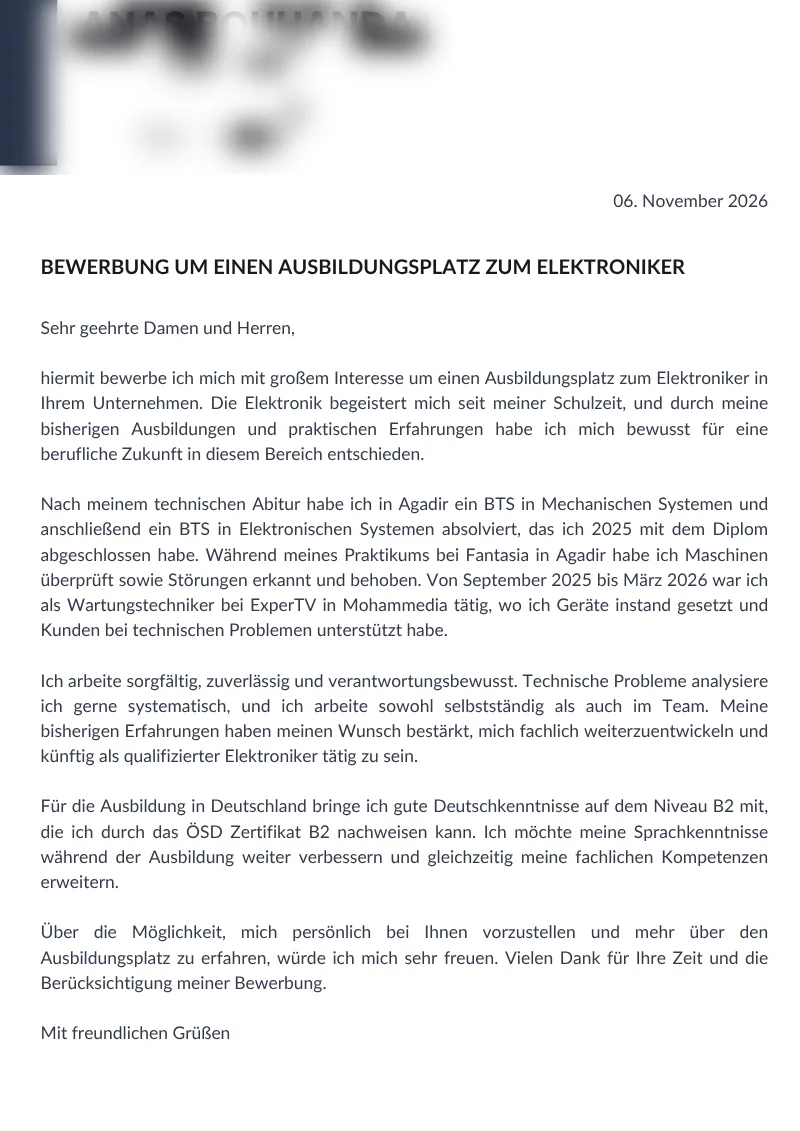
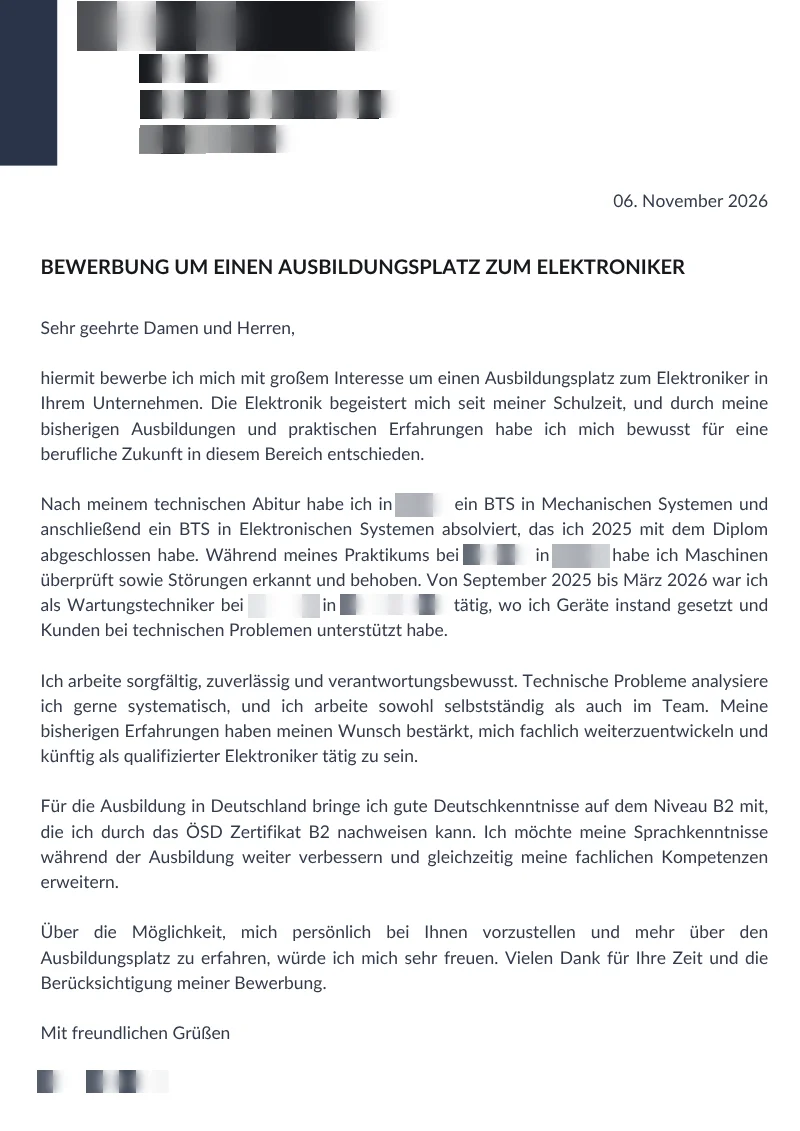
6 exemples (6 métiers), titres sur les pages, WhatsApp même page

diff --git a/index.html b/index.html
@@ -64,21 +64,19 @@ html[dir="rtl"] .tricolor{background:linear-gradient(-90deg,#15151a 0 33.3%,var(
 .file-no{font-family:var(--mono);font-size:13px;color:var(--soft);border:1px dashed var(--soft);display:inline-block;padding:3px 10px;border-radius:4px;direction:ltr}
 .hero h1{font-size:clamp(36px,6vw,66px);margin:16px 0 14px;letter-spacing:-.01em}
 .hero .sub{font-size:19px;color:var(--ink2);max-width:34em;font-weight:300}
-.mappe{position:relative;height:320px;margin-top:30px;max-width:470px}
-.sheet{position:absolute;width:62%;height:250px;background:var(--card);border:1px solid var(--rule);border-radius:4px;box-shadow:0 18px 30px -24px rgba(0,0,0,.5);padding:16px}
-.tabsrow{position:absolute;top:-6px;inset-inline-start:0;display:flex;gap:6px;z-index:6;direction:ltr}
-html[dir="rtl"] .tabsrow{flex-direction:row-reverse}
-.tabsrow span{font:700 12px var(--mono);color:#fff;padding:5px 10px;border-radius:5px}
-.tabsrow .t1{background:var(--ink)}.tabsrow .t2{background:var(--red)}.tabsrow .t3{background:var(--gold2)}
+.mappe{position:relative;height:300px;margin-top:30px;max-width:470px}
+.sheet{position:absolute;width:31%;height:232px;background:var(--card);border:1px solid var(--rule);border-radius:4px;box-shadow:0 18px 30px -24px rgba(0,0,0,.5);padding:0 12px 12px;overflow:hidden}
+.sheet .tg{display:block;margin:0 -12px 12px;padding:7px 4px;font:700 12px var(--mono);color:#fff;text-align:center;letter-spacing:.02em;direction:ltr}
+.tg.t1{background:var(--ink)}.tg.t2{background:var(--red)}.tg.t3{background:var(--gold2)}
 .sheet i{display:block;height:7px;background:var(--paper2);border-radius:4px;margin:9px 0}
 .sheet i.s{width:60%}.sheet i.m{width:80%}
-.sheet .ph{width:52px;height:62px;border-radius:4px;background:linear-gradient(160deg,#d8cfbc,#bfb39b);margin-bottom:10px}
-.sheet .big{font:700 22px var(--f);letter-spacing:.04em;direction:ltr;margin-bottom:6px}
-.s1{inset-inline-start:0;top:44px;transform:rotate(-5deg)}
-.s2{inset-inline-start:18%;top:34px;transform:rotate(2deg)}
-.s3{inset-inline-start:36%;top:52px;transform:rotate(6deg)}
-.stamp{position:absolute;inset-inline-end:-6px;bottom:-4px;width:128px;height:128px;border-radius:50%;border:4px double var(--red);color:var(--red);display:grid;place-items:center;text-align:center;transform:rotate(-14deg);background:rgba(246,241,231,.85);font-weight:700;line-height:1.05}
-.stamp b{display:block;font:700 38px var(--f)}
+.sheet .ph{width:44px;height:52px;border-radius:4px;background:linear-gradient(160deg,#d8cfbc,#bfb39b);margin-bottom:10px}
+.sheet .big{font:700 15px var(--f);letter-spacing:.04em;direction:ltr;margin-bottom:6px}
+.s1{inset-inline-start:0;top:18px;transform:rotate(-2deg)}
+.s2{inset-inline-start:34.5%;top:6px}
+.s3{inset-inline-start:69%;top:18px;transform:rotate(2deg)}
+.stamp{position:absolute;inset-inline-end:-6px;bottom:-8px;width:108px;height:108px;border-radius:50%;border:4px double var(--red);color:var(--red);display:grid;place-items:center;text-align:center;transform:rotate(-14deg);background:rgba(246,241,231,.85);font-weight:700;line-height:1.05}
+.stamp b{display:block;font:700 32px var(--f)}
 .stamp small{font:700 11px var(--mono);letter-spacing:.08em}
 .facts{display:flex;flex-wrap:wrap;gap:8px 18px;margin-top:20px;font-size:15px;font-weight:500}
 .facts span{display:inline-flex;gap:7px;align-items:center}
@@ -221,8 +219,14 @@ footer.ft a{font-weight:600;color:var(--ink);text-decoration:none;margin-inline-
 .dossier{display:grid;grid-template-columns:repeat(3,1fr);gap:18px;margin-bottom:34px}
 .dossier figure{margin:0}
 .dossier img{width:100%;aspect-ratio:800/1131;object-fit:cover;object-position:top;background:#fff;border:1px solid var(--rule);box-shadow:0 18px 30px -24px rgba(0,0,0,.6);cursor:zoom-in}
-.dossier figcaption{margin-top:9px;font-size:14px;color:var(--ink2)}
-.dossier figcaption b{font-family:var(--mono)}
+.dossier figcaption{display:flex;justify-content:space-between;align-items:center;gap:8px;padding:8px 12px;color:#fff;font-size:13px;border-radius:4px 4px 0 0}
+.dossier figcaption b{font:700 14px var(--mono);direction:ltr}
+.dossier figcaption.t1{background:var(--ink)}.dossier figcaption.t2{background:var(--red)}.dossier figcaption.t3{background:var(--gold2)}
+.dossier img{border-top:0!important}
+.exk{display:flex;flex-wrap:wrap;gap:8px;margin:0 0 18px}
+.exk button{display:flex;flex-direction:column;align-items:center;gap:1px;padding:8px 13px;border:1.5px solid var(--rule);background:var(--card);border-radius:8px;cursor:pointer;font:500 12.5px var(--f);color:var(--ink2)}
+.exk button b{font:700 13px var(--mono);color:var(--ink);direction:ltr}
+.exk button.on{background:var(--ink);border-color:var(--ink);color:#e9e2d2}.exk button.on b{color:#fff}
 .board .pins{grid-template-columns:1fr;max-width:460px;margin-inline:auto}
 .cta-c{margin-top:34px;display:flex;justify-content:center}
 .big-cta{font-size:19px;padding:17px 28px;box-shadow:0 14px 26px -14px rgba(0,0,0,.7)}
@@ -258,9 +262,11 @@ footer.ft a{font-weight:600;color:var(--ink);text-decoration:none;margin-inline-
   .pill{inset-inline:14px;width:auto}
   .dossier{grid-template-columns:repeat(3,72%);overflow-x:auto;scroll-snap-type:x mandatory;padding-bottom:10px}
   .dossier figure{scroll-snap-align:start}
+  .exk{display:grid;grid-template-columns:repeat(3,1fr);gap:6px}.exk button{padding:7px 3px;font-size:11.5px}.exk button b{font-size:11.5px}
   .mappe{height:250px;max-width:360px;margin-inline:auto}
-  .sheet{height:205px}
-  .stamp{width:104px;height:104px}.stamp b{font-size:30px}
+  .sheet{height:192px;padding:0 9px 9px}.sheet .tg{margin:0 -9px 10px;font-size:10.5px;padding:6px 2px}
+  .sheet .big{font-size:12px}.sheet .ph{width:34px;height:40px}
+  .stamp{width:88px;height:88px}.stamp b{font-size:26px}
   .toform{padding:7px 11px;font-size:13px}
 }
 @media (max-width:420px){.brand svg{width:30px;height:30px}.brand b{font-size:14.5px}.top .wrap{gap:6px}.lang{padding:5px 8px;font-size:12px}.toform{padding:6px 9px!important;font-size:12.5px!important}.mappe{transform:scale(.92);transform-origin:top center}}
@@ -299,10 +305,9 @@ footer.ft a{font-weight:600;color:var(--ink);text-decoration:none;margin-inline-
     <p class="sub"><span lang="ar">كنوجدو ليك ملف الترشيح كامل بالألمانية: Deckblatt و Anschreiben و Lebenslauf، خاص بالخدمة ولا التكوين اللي غادي تقدم ليه فألمانيا.</span><span lang="fr">Nous préparons votre dossier de candidature complet en allemand : Deckblatt, Anschreiben et Lebenslauf, adapté au poste ou à la formation que vous visez en Allemagne.</span></p>
     <div class="facts"><span lang="ar">فأقل من 24 ساعة</span><span lang="fr">En moins de 24 h</span><span lang="ar">التصويرة معدلة</span><span lang="fr">Photo retouchée</span><span lang="ar">التعديلات فابور</span><span lang="fr">Retouches gratuites</span></div>
     <div class="mappe" aria-hidden="true">
-      <div class="tabsrow"><span class="t3">Deckblatt</span><span class="t2">Anschreiben</span><span class="t1">Lebenslauf</span></div>
-      <div class="sheet s1"><div class="ph"></div><i class="m"></i><i></i><i class="s"></i><i></i><i class="m"></i></div>
-      <div class="sheet s2"><i class="s"></i><i></i><i></i><i class="m"></i><i></i><i></i><i class="s"></i></div>
-      <div class="sheet s3"><div class="big">BEWERBUNG</div><i class="s"></i><div class="ph" style="margin-top:12px"></div><i class="m"></i></div>
+      <div class="sheet s1"><b class="tg t3">Deckblatt</b><div class="big">BEWERBUNG</div><i class="s"></i><div class="ph" style="margin-top:10px"></div><i class="m"></i></div>
+      <div class="sheet s2"><b class="tg t2">Anschreiben</b><i class="s"></i><i></i><i></i><i class="m"></i><i></i><i></i><i class="s"></i></div>
+      <div class="sheet s3"><b class="tg t1">Lebenslauf</b><div class="ph"></div><i class="m"></i><i></i><i class="s"></i><i></i><i class="m"></i></div>
       <div class="stamp"><div><b>200</b><small><span lang="ar">درهم</span><span lang="fr">DIRHAMS</span></small></div></div>
     </div>
   </div>
@@ -347,7 +352,7 @@ footer.ft a{font-weight:600;color:var(--ink);text-decoration:none;margin-inline-
       <h3><span lang="ar">توصلنا بالطلب ديالك ✓</span><span lang="fr">Demande reçue ✓</span></h3>
       <p><span lang="ar">غادي يتحل الواتساب بالميساج ديالك، صيفطو. من بعد صيفط فنفس المحادثة التصويرة ديالك، والـ CV ولا الشواهد إلا كانو عندك.</span><span lang="fr">WhatsApp s'ouvre avec votre message : envoyez-le. Puis envoyez votre photo, et votre CV ou vos diplômes si vous en avez.</span></p>
       <div class="prev" id="prevMsg"></div>
-      <div class="row"><a class="wa-btn" id="waLink" href="#" target="_blank" rel="noopener"><svg viewBox="0 0 24 24"><use href="#wa"/></svg><span lang="ar">فتح واتساب</span><span lang="fr">Ouvrir WhatsApp</span></a><button type="button" class="cp-btn" id="copyMsg"><span lang="ar">نسخ الميساج</span><span lang="fr">Copier</span></button></div>
+      <div class="row"><a class="wa-btn" id="waLink" href="#"><svg viewBox="0 0 24 24"><use href="#wa"/></svg><span lang="ar">فتح واتساب</span><span lang="fr">Ouvrir WhatsApp</span></a><button type="button" class="cp-btn" id="copyMsg"><span lang="ar">نسخ الميساج</span><span lang="fr">Copier</span></button></div>
     </div>
   </div>
 </div></section>
@@ -368,11 +373,19 @@ footer.ft a{font-weight:600;color:var(--ink);text-decoration:none;margin-inline-
 </div></section>
 
 <section class="sec board" id="nmadij"><div class="wrap">
-  <div class="sec-h"><span class="num">02</span><h2><span lang="ar">نماذج من الملفات اللي كنوجدو</span><span lang="fr">Exemples de dossiers réalisés</span></h2><p><span lang="ar">هادا ملف كامل وجدناه لزبون كيقدم لـ Ausbildung فالإلكترونيك (Elektroniker). خبّينا الوجه والسمية والمعلومات الشخصية. ورك على أي صفحة باش تكبّرها.</span><span lang="fr">Un dossier complet préparé pour un client candidat à une Ausbildung d'électronicien (Elektroniker). Visage, nom et coordonnées masqués. Touchez une page pour l'agrandir.</span></p></div>
-  <div class="dossier">
-    <figure><img src="d-elek-deckblatt.webp" alt="Deckblatt · Elektroniker" width="800" height="1131" loading="lazy" data-zoom><figcaption><b>Deckblatt</b> · <span lang="ar">صفحة الغلاف</span><span lang="fr">page de garde</span></figcaption></figure>
-    <figure><img src="d-elek-anschreiben.webp" alt="Anschreiben · Elektroniker" width="800" height="1131" loading="lazy" data-zoom><figcaption><b>Anschreiben</b> · <span lang="ar">رسالة التحفيز</span><span lang="fr">lettre de motivation</span></figcaption></figure>
-    <figure><img src="d-elek-lebenslauf.webp" alt="Lebenslauf · Elektroniker" width="800" height="1131" loading="lazy" data-zoom><figcaption><b>Lebenslauf</b> · <span lang="ar">السيرة الذاتية</span><span lang="fr">CV</span></figcaption></figure>
+  <div class="sec-h"><span class="num">02</span><h2><span lang="ar">نماذج من الملفات اللي كنوجدو</span><span lang="fr">Exemples de dossiers réalisés</span></h2><p><span lang="ar">6 ديال الملفات حقيقيين وجدناهم لزبناء ديالنا ف6 ديال المجالات. خبّينا الوجه والسمية والعناوين وأسماء المدارس والشركات. ختار المجال، وورك على أي صفحة باش تكبّرها.</span><span lang="fr">6 vrais dossiers préparés pour nos clients, dans 6 métiers différents. Visage, nom, adresses, écoles et employeurs masqués. Choisissez un métier, touchez une page pour l'agrandir.</span></p></div>
+  <div class="exk" role="tablist">
+    <button type="button" class="on" data-k="elek"><b>Elektroniker</b><span lang="ar">الإلكترونيك</span><span lang="fr">Électronique</span></button>
+    <button type="button" data-k="hotel"><b>Hotelfachfrau</b><span lang="ar">الفندقة</span><span lang="fr">Hôtellerie</span></button>
+    <button type="button" data-k="lager"><b>Lagerlogistik</b><span lang="ar">لوجستيك المخازن</span><span lang="fr">Logistique</span></button>
+    <button type="button" data-k="maurer"><b>Maurer</b><span lang="ar">البناء</span><span lang="fr">Maçonnerie</span></button>
+    <button type="button" data-k="verk"><b>Verkäuferin</b><span lang="ar">البيع</span><span lang="fr">Vente</span></button>
+    <button type="button" data-k="mech"><b>Mechatroniker</b><span lang="ar">الميكاترونيك</span><span lang="fr">Mécatronique</span></button>
+  </div>
+  <div class="dossier" id="exPages">
+    <figure><figcaption class="t3"><b>Deckblatt</b><span lang="ar">صفحة الغلاف</span><span lang="fr">page de garde</span></figcaption><img src="d-elek-deckblatt.webp" data-p="deckblatt" alt="Deckblatt · Elektroniker" width="800" height="1131" loading="lazy" data-zoom></figure>
+    <figure><figcaption class="t2"><b>Anschreiben</b><span lang="ar">رسالة التحفيز</span><span lang="fr">lettre de motivation</span></figcaption><img src="d-elek-anschreiben.webp" data-p="anschreiben" alt="Anschreiben · Elektroniker" width="800" height="1131" loading="lazy" data-zoom></figure>
+    <figure><figcaption class="t1"><b>Lebenslauf</b><span lang="ar">السيرة الذاتية</span><span lang="fr">CV</span></figcaption><img src="d-elek-lebenslauf.webp" data-p="lebenslauf" alt="Lebenslauf · Elektroniker" width="800" height="1131" loading="lazy" data-zoom></figure>
   </div>
   <div class="cta-c"><a class="cta-ink big-cta" href="#antrag"><span lang="ar">بغيت ملف بحال هادا</span><span lang="fr">Je veux un dossier comme ça</span><b>200 DH</b></a></div>
 </div></section>
@@ -466,6 +479,7 @@ function applyLang(){var h=document.documentElement;h.setAttribute("data-l",lang
 $("lang").addEventListener("click",function(){lang=lang==="ar"?"fr":"ar";try{localStorage.setItem("tbp-lang",lang)}catch(e){}applyLang()});
 
 /* zoom */
+document.querySelectorAll(".exk button").forEach(function(bt){bt.addEventListener("click",function(){document.querySelectorAll(".exk button").forEach(function(x){x.classList.toggle("on",x===bt)});var k=bt.getAttribute("data-k"),nm=bt.querySelector("b").textContent;document.querySelectorAll("#exPages img").forEach(function(im){var p=im.getAttribute("data-p");im.src="d-"+k+"-"+p+".webp";im.alt=p.charAt(0).toUpperCase()+p.slice(1)+" · "+nm})})});
 document.querySelectorAll("img[data-zoom]").forEach(function(im){im.addEventListener("click",function(){$("zmImg").src=im.src;$("zmImg").alt=im.alt;$("zm").classList.add("on")})});
 $("zmX").addEventListener("click",function(){$("zm").classList.remove("on")});
 $("zm").addEventListener("click",function(e){if(e.target===this)this.classList.remove("on")});
@@ -485,7 +499,7 @@ function buildMessage(){
     return ["السلام عليكم \u{1F44B} أرغب في طلب ملف الترشيح باللغة الألمانية.","","*\u{1F1E9}\u{1F1EA} DOSSIER BEWERBUNG*","",
       "\u{1F464} الاسم الكامل: "+v("f_first"),"\u{1F3AF} نوع الترشيح: "+need,"\u{1F5E3} المستوى في الألمانية: "+lvlVal(),
       "\u{1F4BC} "+(f?"التكوين المطلوب: ":"المجال المطلوب: ")+v("f_job"),"\u{1F4F1} رقم الهاتف: "+v("f_phone"),"",
-      "\u{1F4B0} العرض: الملف الكامل، "+PRICE+" درهم ✔","\u{1F4CE} السيرة الذاتية: سأرسلها هنا","\u{1F4F7} الصورة: سأرسلها هنا","\u{1F310} المصدر: thebewerbungplus.store"].join("\n");
+      "\u{1F4B0} العرض: الملف الكامل، "+PRICE+" درهم ✔","\u{1F310} المصدر: thebewerbungplus.store"].join("\n");
   }
   return ["Bonjour \u{1F44B} Je souhaite commander mon dossier de candidature en allemand.","","*\u{1F1E9}\u{1F1EA} DOSSIER BEWERBUNG*","",
     "\u{1F464} Nom complet : "+v("f_first"),"\u{1F3AF} Je cherche : "+need,"\u{1F5E3} Niveau d'allemand : "+lvlVal(),
@@ -518,7 +532,7 @@ $("order").addEventListener("submit",function(e){
   $("prevMsg").textContent=msg;$("waLink").href=href;
   $("order").style.display="none";$("done").classList.add("on");
   var mob=/Android|iPhone|iPad|iPod|FBAN|FBAV|FB_IAB|Instagram|Mobile/i.test(navigator.userAgent);
-  if(mob){setTimeout(function(){try{location.href=href}catch(x){}},400)}else{try{window.open(href,"_blank","noopener")}catch(x){}}
+  setTimeout(function(){try{location.href=href}catch(x){}},400);
 });
 document.querySelectorAll("#order input").forEach(function(i){function c(){i.classList.remove("bad");var o=i.closest(".opt");if(o)o.parentNode.querySelectorAll(".opt").forEach(function(x){x.classList.remove("bad")})}i.addEventListener("input",c);i.addEventListener("change",c)});
 document.querySelectorAll("input[name=f_need]").forEach(function(r){r.addEventListener("change",function(){
